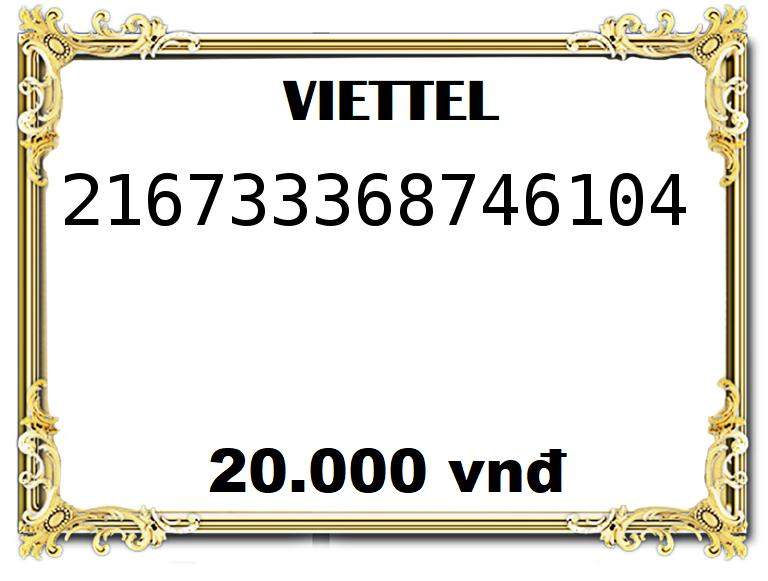
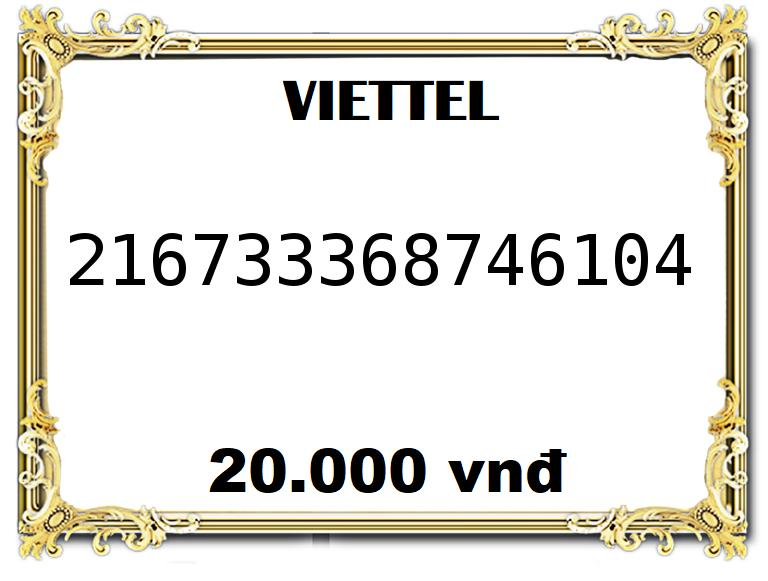
add

Changed region(s): [[0.0625, 0.2788, 0.9062, 0.4957]]

diff --git a/test.py b/test.py
@@ -7,5 +7,5 @@ draw = ImageDraw.Draw(img)
 # font = ImageFont.truetype(<font-file>, <font-size>)
 font = ImageFont.truetype("/usr/share/fonts/truetype/dejavu/DejaVuSansMono.ttf", 70)
 # draw.text((x, y),"Sample Text",(r,g,b))
-draw.text((60, 160),"216733368746104",(0,0,0),font=font)
+draw.text((65, 220),"216733368746104",(0,0,0),font=font)
 img.save('card.jpg')
